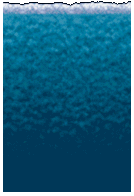
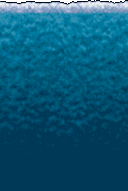
animated breaking wave, repositioned thrilla and added paddling animation

diff --git a/js/main.js b/js/main.js
@@ -5,25 +5,45 @@ var game = new Phaser.Game(800, 600, Phaser.AUTO, 'gameboard', {preload: preload
 
 function preload(){
 	console.log('preload');
-	game.load.image('sunset', './assets/img/sunset-background.jpg');
-	game.load.image('horizon', './assets/img/flat-water-section.png');
-	game.load.image('pad1', './assets/img/thrilla-paddle-1.png');
+	//loading game images
+	game.load.image('sunset', './assets/img/sunset-background.jpg'); //sunset background
+	game.load.image('horizon', './assets/img/flat-water-section.png'); //water horizon
+	game.load.image('wave', './assets/img/breaking-wave-long.png'); //wave back
+	
+
+	//loading game animations
+	game.load.spritesheet('wash', './assets/img/wave-tube-sheet.png', 137.5, 170);  //whitewash animation taking frames width: 137.5 and height: 170
+	game.load.spritesheet('paddling', './assets/img/thrilla-paddling-sheet.png', 64, 64); //paddling animation taking frames width and height: 64
 };
 
 function create(){
 	console.log('create');
+	game.physics.startSystem(Phaser.Physics.ARCADE); //adds game physics to the game
+
 	//game images
-	var  background = game.add.tileSprite(0, 0, game.width, game.height, 'sunset');
-	background.scale.setTo(4)
+	var  background = game.add.tileSprite(0, 0, game.width, game.height, 'sunset');  //adds sunset background
+	background.scale.setTo(4) //rescales background
 
-	game.add.tileSprite(0, 200, game.width, game.height - 200, 'horizon');
+	var ocean = game.add.tileSprite(0, 200, game.width, game.height - 200, 'horizon'); //adds ocean on top of sunset to make a horizon
+	ocean.autoScroll(-20, 0) //creates a slow scroll so it appears we move along horizon
+
+	var breaker = game.add.tileSprite(0, 300, game.width, game.height, 'wave'); //adds "surfable" portion of wave
+	breaker.scale.setTo(1, 1.75); //rescales wave to fit canvas
+	breaker.autoScroll(-50, 0); //scrolls wave go simulate movement
 
 	
-	var thrilla = game.add.sprite(0, 0, 'pad1');
-	thrilla.scale.setTo(1.5);
-	
-
 	//game animations
+	var whitewash = game.add.sprite(-5, 300, 'wash'); //adds white wash to right side of screen
+	whitewash.scale.setTo(1.5, 2); //scales whitewash
+	whitewash.animations.add('crash'); //Names the animation "crash"
+	whitewash.animations.play('crash', 10, true); //tells "crash" to play at 10 (fps?). The true loops the animation
+
+	
+	var thrilla = game.add.sprite(100, 350, 'paddling'); //adds paddling sprite to screen
+	thrilla.scale.setTo(1.5); //scales gorilla
+	thrilla.animations.add('padIn'); //names animation "padIn"
+	thrilla.animations.play('padIn', 5, true); //tells "padIn" to play at 5 (fps?). The true loops the animation
+	game.physics.arcade.enable(thrilla); //allows gorilla to move around screen
 
 	//game sounds
 };

diff --git a/index.html b/index.html
@@ -8,7 +8,7 @@
 </head>
 <body>
 
-<h1 id="title">That Killa Thrilla Gorilla Game</h1>
+<h1 id="title">That Killa Thrilla Gorilla Surf Game</h1>
 
 <div id="gameboard">
 	
